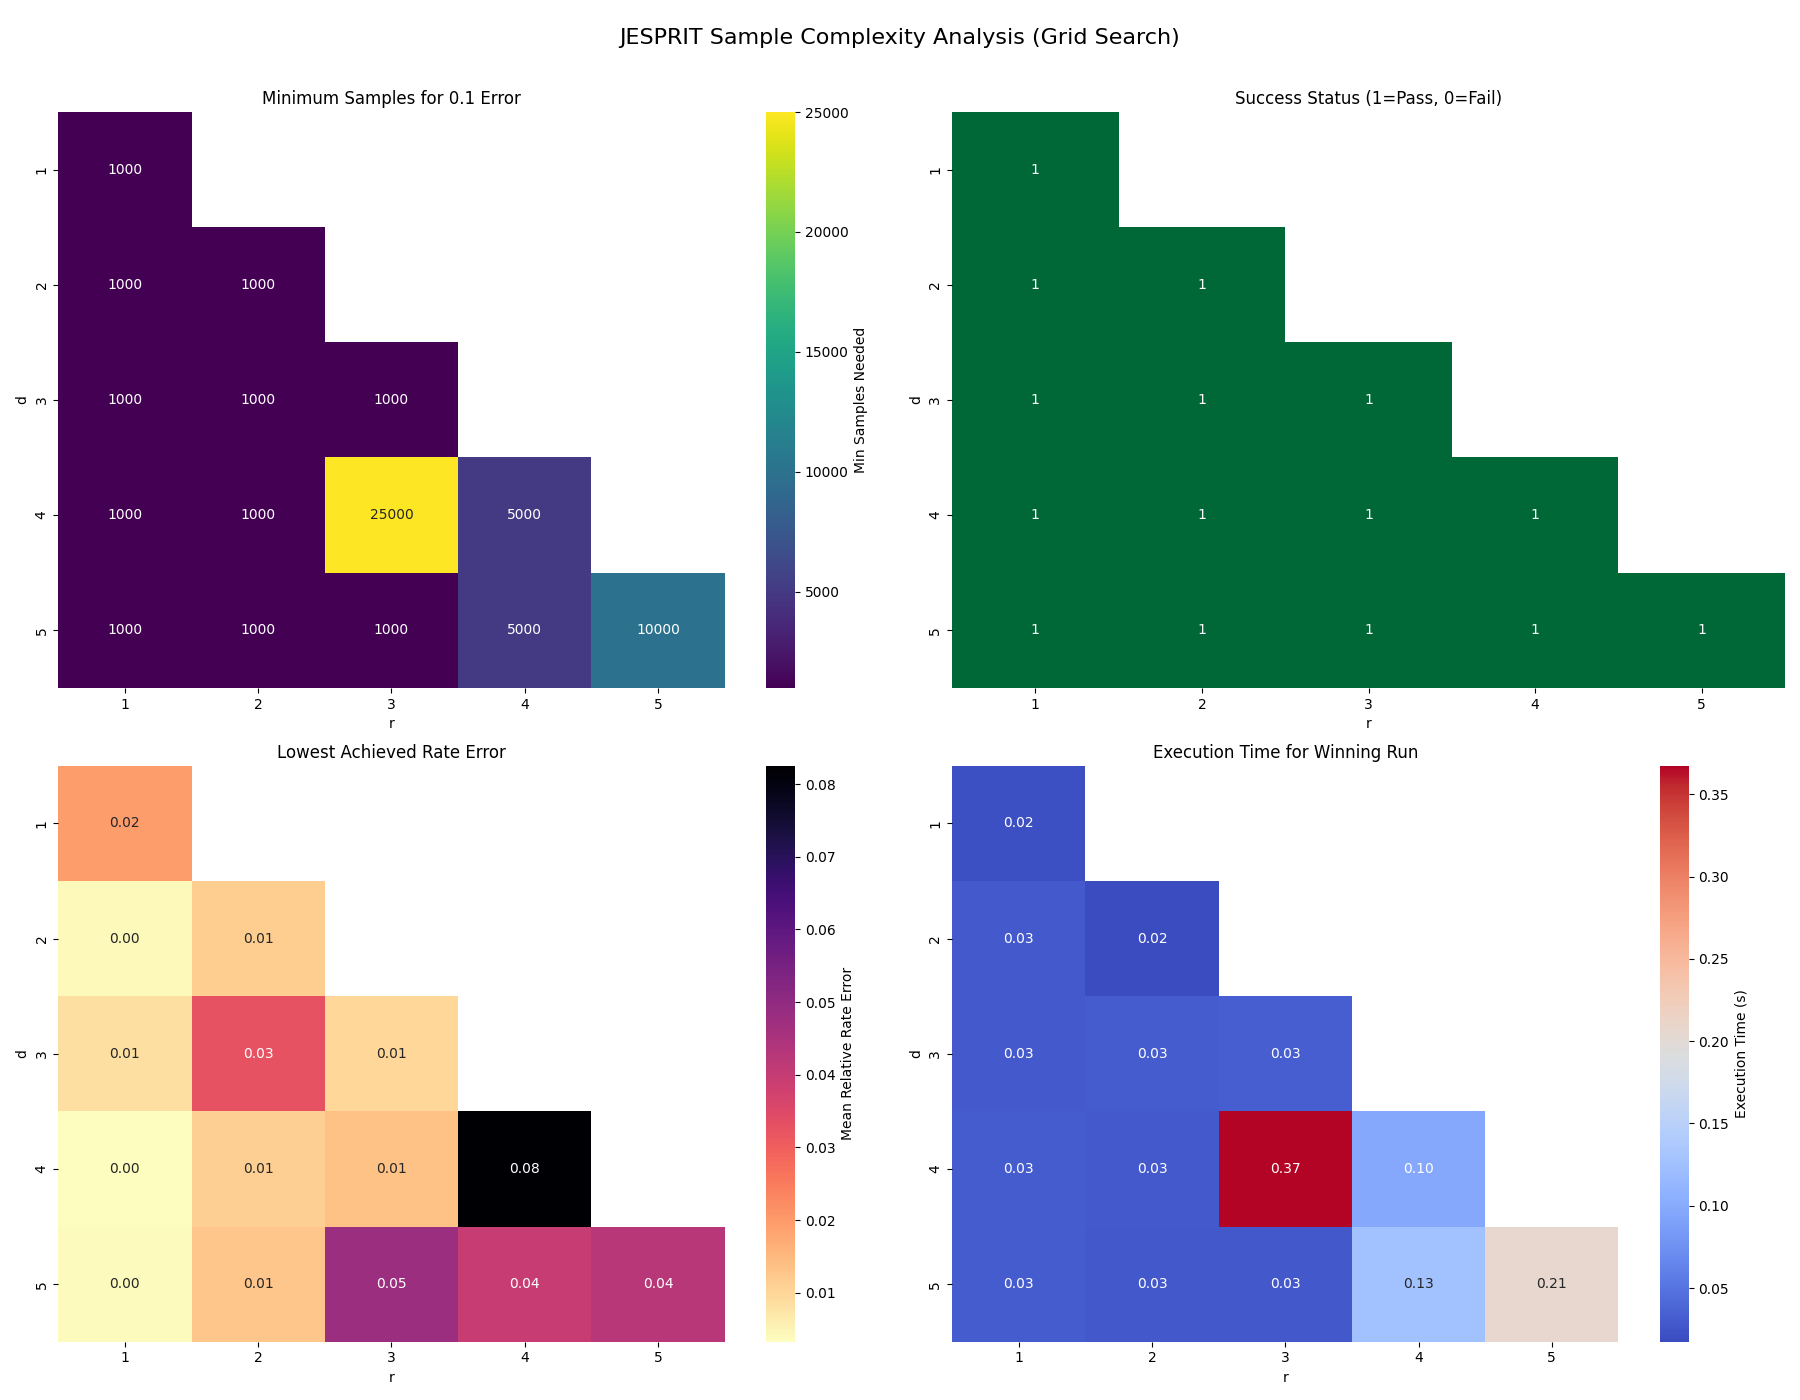
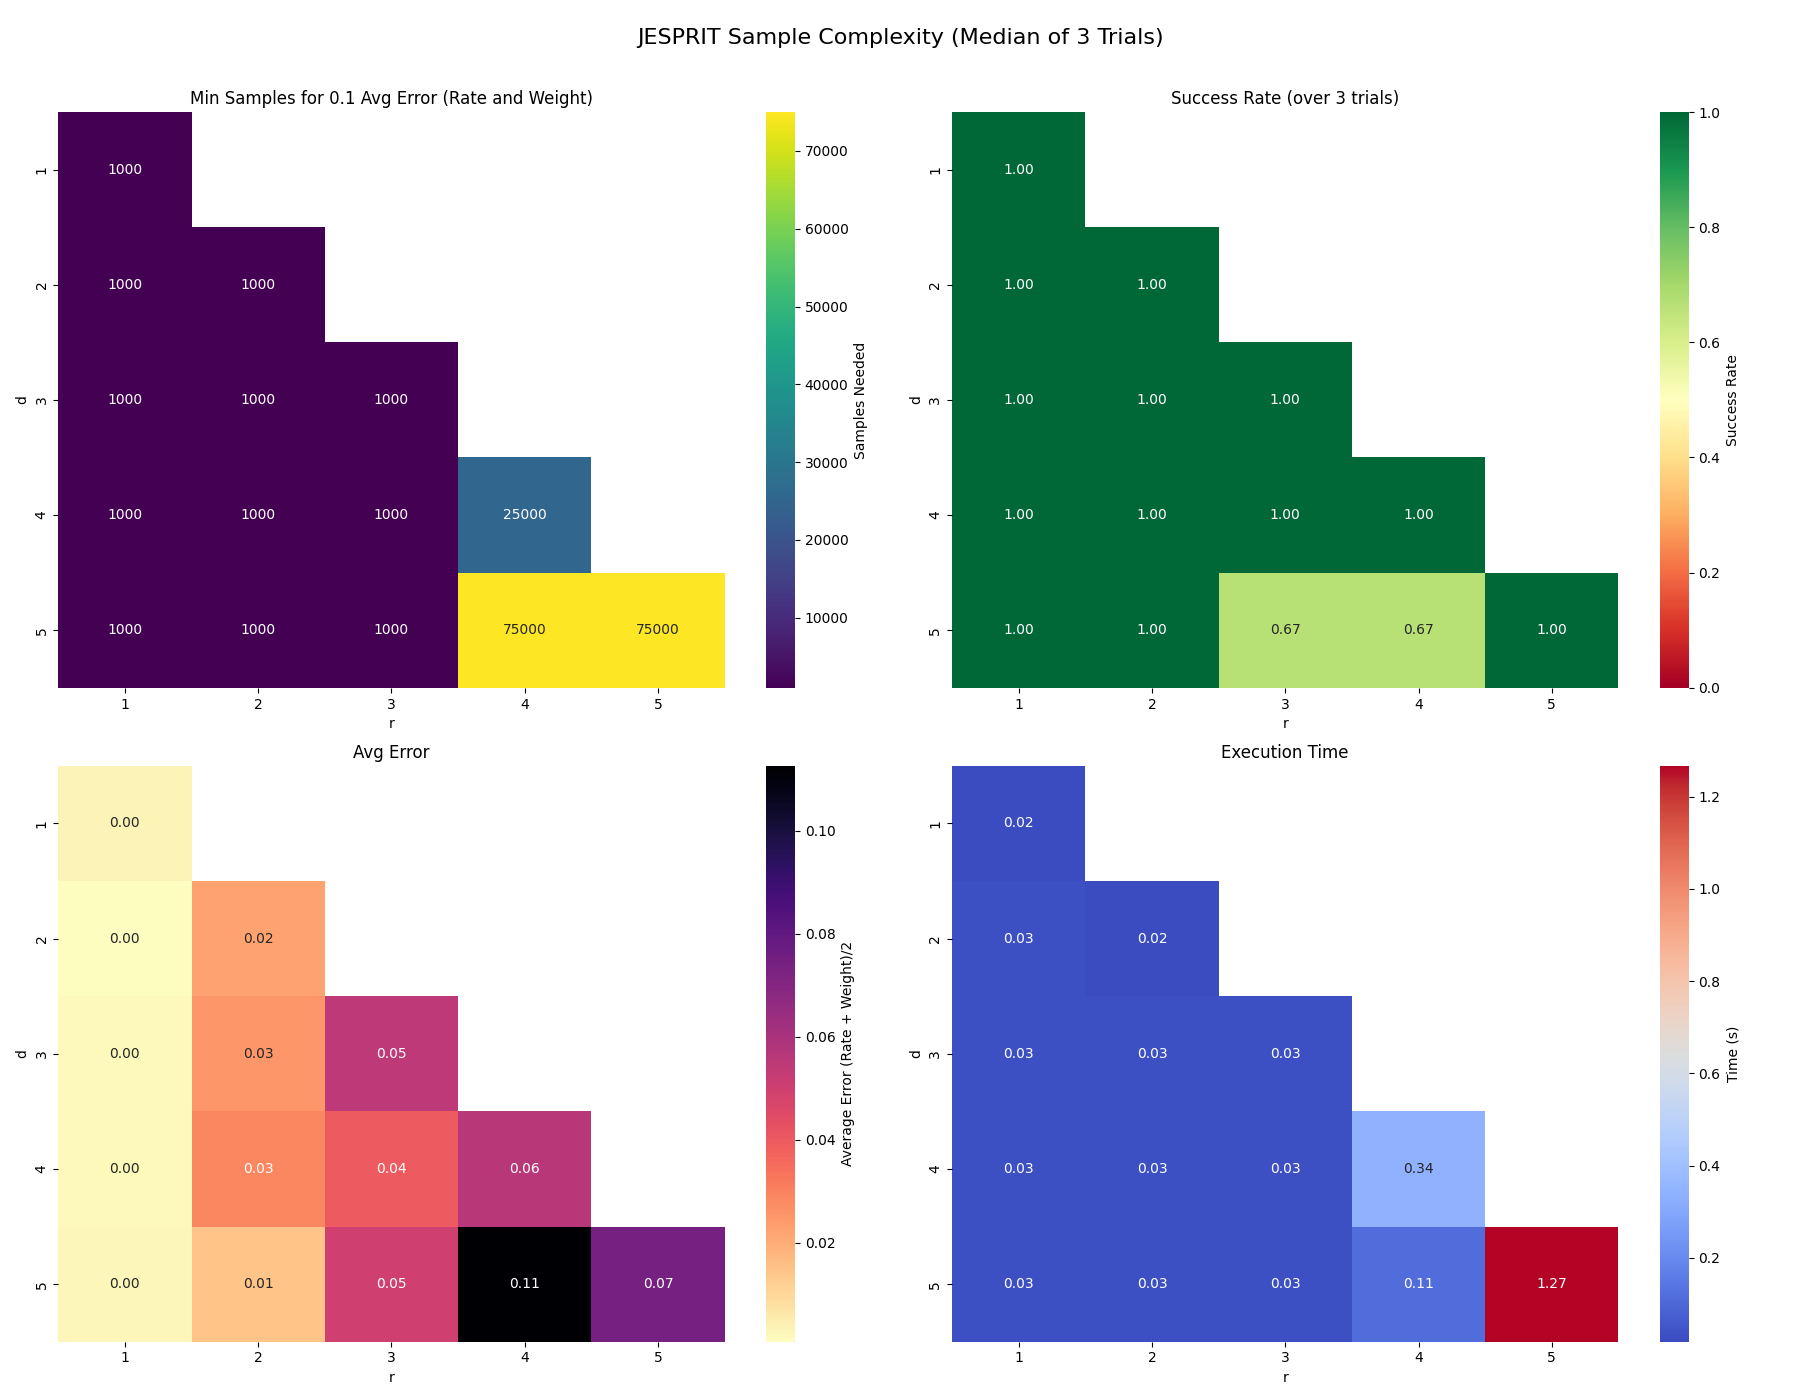
improve sample complexity grid again

diff --git a/script/analyze_sample_complexity.py b/script/analyze_sample_complexity.py
@@ -11,17 +11,18 @@ def analyze_sample_complexity():
     # Configuration
     max_d = 5
     d_range = list(range(1, max_d + 1)) 
-    r_range = list(range(1, max_d + 1)) # Will filter valid pairs
-
-    target_rate_error = 0.10           # 10% error threshold (MRE)
-    target_weight_error = 0.10         # 10% error threshold (MRE)
+    r_range = list(range(1, max_d + 1)) 
+    
+    n_trials = 3                       # Number of random trials per (d, r) to compute median
+    target_error = 0.10                # 10% error threshold (Average MRE)
     patience = 3                       # Early stopping patience
     
-    # Sample sizes to test (logarithmic scale)
+    # Sample sizes to test
     sample_steps = [1000, 5000, 10000, 25000, 50000, 75000, 100000, 150000, 200000]
+    max_n = sample_steps[-1]
     
-    print(f"Starting Grid Search Sample Complexity Analysis")
-    print(f"Target Rate & Weight Error: {target_rate_error}")
+    print(f"Starting Grid Search Sample Complexity Analysis (Median of {n_trials} trials)")
+    print(f"Target Average Error: {target_error}")
     print(f"Dimensions d: {d_range}")
     print(f"Ranks r: {r_range} (where r <= d)")
     print("-" * 50)
@@ -34,126 +35,152 @@ def analyze_sample_complexity():
     results = []
 
     with open(os.path.join(log_dir, "sample_complexity_grid.txt"), "w") as f:
-        f.write("d, r, Samples Needed, Rate Error, Weight Error, Time(s), Success\n")
+        f.write("d, r, Median Samples, Median Rate Err, Median Weight Err, Median Time, Success Rate\n")
         f.flush()
         
         for d in d_range:
             for r in r_range:
-                # Identification Constraint: typically we need d >= r for simple identifiability,
-                # or strictly d >= r. JESPRIT works by finding r-dimensional subspace in d-dim space.
                 if r > d:
                     continue
                 
                 print(f"\nProcessing d={d}, r={r}...")
                 
-                # 1. Generate Ground Truth
-                # To be robust, scale counts slightly with d to keep signal strength comparable?
-                # Or just keep random [20, 100].
-                A = np.random.randint(20, 100, size=(d, r))
-                z = np.eye(r)
-                pi = np.random.rand(r)
-                pi = pi / np.sum(pi)
+                trial_samples = []
+                trial_rate_errs = []
+                trial_weight_errs = []
+                trial_times = []
+                trial_successes = []
                 
-                lambdas_true = A @ z
-                delta = 1.0 / np.max(lambdas_true)
-                
-                # JESPRIT Parameters
-                # Heuristic: M, S, N must be >= r or d.
-                # Let's start with generous parameters to isolate sample complexity.
-                M = max(d, r) + 10
-                S = max(d, r) + 10
-                N = max(d, r) + 10
-                
-                # 2. Find minimum samples
-                found_samples = None
-                final_rate_err = 1.0
-                final_weight_err = 1.0
-                final_time = 0.0
-                success = False
-                
-                best_rate_err_pair = float('inf')
-                best_samples_pair = None
-                prev_rate_err = float('inf')
-                increase_count = 0
-                
-                # Max pool needed
-                max_n = sample_steps[-1]
-                print(f"  Generating max pool of {max_n} samples...")
-                generate_start = time.time()
-                try:
-                    X_pool, _ = generate_mixed_poisson_samples(A, pi, z, max_n)
-                except Exception as e:
-                    print(f"  Generation Failed: {e}")
-                    results.append({
-                        'd': d, 'r': r, 'samples': np.nan, 
-                        'rate_err': np.nan, 'time': 0, 'success': False
-                    })
-                    continue
-
-                for n in sample_steps:
-                    print(f"  n={n}...", end="", flush=True)
-                    start_time = time.time()
+                for trial_idx in range(n_trials):
+                    print(f"  Trial {trial_idx+1}/{n_trials}...", end="", flush=True)
                     
+                    # 1. Generate Ground Truth
                     try:
-                        X_subset = X_pool[:n, :]
-                        omega_hat, a_k = jesprit(X_subset, r, M, S, N, delta)
-                        elapsed = time.time() - start_time
+                        A = np.random.randint(20, 100, size=(d, r))
+                        z = np.eye(r)
+                        pi = np.random.rand(r)
+                        pi = pi / np.sum(pi)
                         
-                        rate_err, weight_err, _, _ = compute_error(lambdas_true, pi, omega_hat, a_k)
-                        print(f" Rate:{rate_err:.4f} Wgt:{weight_err:.4f} ({elapsed:.2f}s)")
+                        lambdas_true = A @ z
+                        delta = 1.0 / np.max(lambdas_true)
                         
-                        # Track best
-                        if rate_err < best_rate_err_pair:
-                            best_rate_err_pair = rate_err
-                            best_samples_pair = n
-                            final_rate_err = rate_err
-                            final_weight_err = weight_err
-                            final_time = elapsed
-
-                        # Success check
-                        if rate_err <= target_rate_error and weight_err <= target_weight_error:
-                            found_samples = n
-                            success = True
-                            final_rate_err = rate_err
-                            final_weight_err = weight_err
-                            final_time = elapsed
-                            print(f"  -> SUCCESS")
-                            break
+                        # JESPRIT Parameters
+                        M = max(d, r) + 10
+                        S = max(d, r) + 10
+                        N = max(d, r) + 10
                         
-                        # Early stopping
-                        if rate_err > prev_rate_err:
-                            increase_count += 1
-                            if increase_count >= patience:
-                                print(f"  -> STOP: Error increased {patience} times.")
-                                break
-                        else:
-                            increase_count = 0
-                        prev_rate_err = rate_err
-                            
+                        # Generate Max Pool
+                        X_pool, _ = generate_mixed_poisson_samples(A, pi, z, max_n)
+                        
                     except Exception as e:
-                        print(f" Failed: {e}")
-                        break # Break inner sample loop, move to next d,r
+                        print(f" [Setup Failed: {e}]")
+                        trial_samples.append(max_n)
+                        trial_rate_errs.append(1.0)
+                        trial_weight_errs.append(1.0)
+                        trial_times.append(0.0)
+                        trial_successes.append(False)
+                        continue
+
+                    # 2. Find minimum samples for this trial
+                    found_n = None
+                    final_rate = 1.0
+                    final_wgt = 1.0
+                    final_t = 0.0
+                    success = False
+                    
+                    best_avg_local = float('inf')
+                    prev_avg_local = float('inf')
+                    increase_count = 0
+                    
+                    for n in sample_steps:
+                        start_time = time.time()
+                        try:
+                            X_subset = X_pool[:n, :]
+                            omega_hat, a_k = jesprit(X_subset, r, M, S, N, delta)
+                            elapsed = time.time() - start_time
+                            
+                            rate_err, weight_err, _, _ = compute_error(lambdas_true, pi, omega_hat, a_k)
+                            avg_err = (rate_err + weight_err) / 2.0
+                            
+                            # Track best (now based on Average Error)
+                            if avg_err < best_avg_local:
+                                best_avg_local = avg_err
+                                final_rate = rate_err
+                                final_wgt = weight_err
+                                final_t = elapsed
+
+                            # Success check (Average Error <= Target)
+                            if avg_err <= target_error:
+                                found_n = n
+                                success = True
+                                final_rate = rate_err
+                                final_wgt = weight_err
+                                final_t = elapsed
+                                break
+                            
+                            # Early stopping (on Avg Error)
+                            if avg_err > prev_avg_local:
+                                increase_count += 1
+                                if increase_count >= patience:
+                                    break
+                            else:
+                                increase_count = 0
+                            prev_avg_local = avg_err
+                            
+                        except Exception as e:
+                            # print(f" [Failed: {e}]", end="") 
+                            break 
+                    
+                    # Store Trial Result
+                    if found_n is None:
+                        trial_samples.append(max_n) # Saturated at max (user requested no exaggeration)
+                        trial_successes.append(False)
+                    else:
+                        trial_samples.append(found_n)
+                        trial_successes.append(True)
+                        
+                    trial_rate_errs.append(final_rate)
+                    trial_weight_errs.append(final_wgt)
+                    trial_times.append(final_t)
+                    
+                    status = "PASS" if success else "FAIL"
+                    print(f" -> {status} (n={found_n if found_n else '>'+str(max_n)})")
+
+                # --- Compute Medians across trials ---
+                med_samples = np.median(trial_samples)
+                med_rate_err = np.median(trial_rate_errs)
+                med_weight_err = np.median(trial_weight_errs)
+                med_time = np.median(trial_times)
+                success_rate = np.mean(trial_successes)
                 
-                # Finalize result for this (d, r)
-                if found_samples is None:
-                    # Failed to converge
-                    found_samples = max_n * 1.5 # Indicator for plot (saturated)
-                    final_rate_err = best_rate_err_pair
+                # Determine overall success:
+                # If median samples is saturated, then "Fail". Or based on success rate?
+                # Let's say if success rate > 0.5, we consider it a success.
+                overall_success = (success_rate >= 0.5)
                 
-                # Log to file
-                succ_str = "YES" if success else "NO"
-                f.write(f"{d}, {r}, {found_samples}, {final_rate_err:.4f}, {final_weight_err:.4f}, {final_time:.4f}, {succ_str}\n")
+                med_print = f"{med_samples:.0f}"
+                if med_samples > max_n:
+                    med_print = f">{max_n}"
+                
+                print(f"  => RESULT: Median Samples={med_print}, Success Rate={success_rate*100:.0f}%")
+                
+                # Log to file (keep numeric for consistency, or string?)
+                # user sees log file too. Let's saturate it at max_n in log or keep as is?
+                # Let's keep numeric in CSV for parsing, but maybe cap at max_n for plotting aesthetics?
+                # Actually, 1.5*max_n is good for heatmap contrast.
+                f.write(f"{d}, {r}, {med_samples}, {med_rate_err:.4f}, {med_weight_err:.4f}, {med_time:.4f}, {success_rate:.2f}\n")
                 f.flush()
                 
                 results.append({
                     'd': d, 
                     'r': r, 
-                    'samples': found_samples if success else max_n, # Cap at max for plotting gradient usually better
-                    'raw_samples': found_samples,
-                    'rate_err': final_rate_err,
-                    'weight_err': final_weight_err,
-                    'time': final_time,
-                    'success': success
+                    'samples': med_samples,
+                    'rate_err': med_rate_err,
+                    'weight_err': med_weight_err,
+                    'avg_err': (med_rate_err + med_weight_err) / 2.0,
+                    'time': med_time,
+                    'success': overall_success,
+                    'success_rate': success_rate
                 })
 
     # --- Plotting ---
@@ -163,43 +190,37 @@ def analyze_sample_complexity():
 
     df = pd.DataFrame(results)
     
-    # 1. Pivot tables
-    # Fill missing values with NaN or appropriate indicator
-    pivot_samples = df.pivot(index='d', columns='r', values='raw_samples')
-    pivot_success = df.pivot(index='d', columns='r', values='success')
-    pivot_error = df.pivot(index='d', columns='r', values='rate_err')
+    pivot_samples = df.pivot(index='d', columns='r', values='samples')
+    pivot_success = df.pivot(index='d', columns='r', values='success_rate')
+    pivot_error = df.pivot(index='d', columns='r', values='avg_err')
     pivot_time = df.pivot(index='d', columns='r', values='time')
 
-    # Create subplots
     fig, axes = plt.subplots(2, 2, figsize=(18, 14))
-    fig.suptitle(f'JESPRIT Sample Complexity Analysis (Grid Search)', fontsize=16)
+    fig.suptitle(f'JESPRIT Sample Complexity (Median of {n_trials} Trials)', fontsize=16)
 
-    # Plot 1: Samples Needed
-    # Use a mask for where r > d (should be empty/NaN)
+    # Plot 1: Median Samples
     ax = axes[0, 0]
     sns.heatmap(pivot_samples, ax=ax, cmap="viridis", annot=True, fmt=".0f", 
-                cbar_kws={'label': 'Min Samples Needed'})
-    ax.set_title(f'Minimum Samples for {target_rate_error} Error')
-    # Removed invert_yaxis to match other plots (standard matrix orientation)
+                cbar_kws={'label': 'Samples Needed'})
+    ax.set_title(f'Min Samples for {target_error} Avg Error (Rate and Weight)')
     
-    # Plot 2: Success Status
+    # Plot 2: Success Rate
     ax = axes[0, 1]
-    # Convert boolean to int for heatmap: 1=Success, 0=Fail
-    sns.heatmap(pivot_success.astype(float), ax=ax, cmap="RdYlGn", annot=True, 
-                cbar=False, vmin=0, vmax=1)
-    ax.set_title('Success Status (1=Pass, 0=Fail)')
+    sns.heatmap(pivot_success, ax=ax, cmap="RdYlGn", annot=True, fmt=".2f", 
+                cbar_kws={'label': 'Success Rate'}, vmin=0, vmax=1)
+    ax.set_title(f'Success Rate (over {n_trials} trials)')
 
-    # Plot 3: Final Rate Error
+    # Plot 3: Average Error
     ax = axes[1, 0]
     sns.heatmap(pivot_error, ax=ax, cmap="magma_r", annot=True, fmt=".2f", 
-                cbar_kws={'label': 'Mean Relative Rate Error'})
-    ax.set_title('Lowest Achieved Rate Error')
+                cbar_kws={'label': 'Average Error (Rate + Weight)/2'})
+    ax.set_title('Avg Error')
 
-    # Plot 4: Execution Time
+    # Plot 4: Median Execution Time
     ax = axes[1, 1]
     sns.heatmap(pivot_time, ax=ax, cmap="coolwarm", annot=True, fmt=".2f", 
-                cbar_kws={'label': 'Execution Time (s)'})
-    ax.set_title('Execution Time for Winning Run')
+                cbar_kws={'label': 'Time (s)'})
+    ax.set_title('Execution Time')
 
     plt.tight_layout()
     plt.subplots_adjust(top=0.92)
